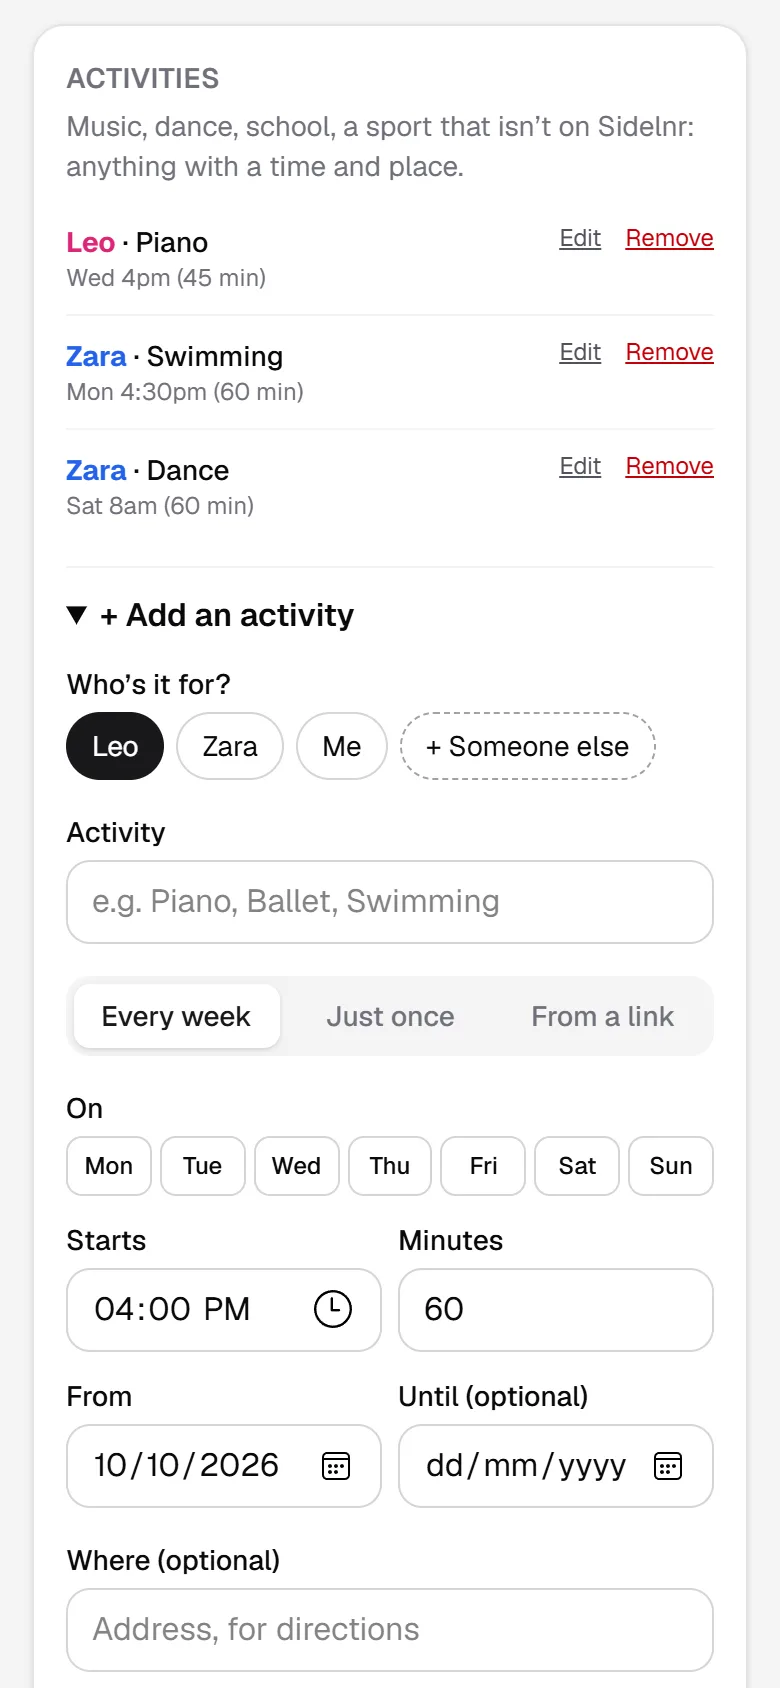
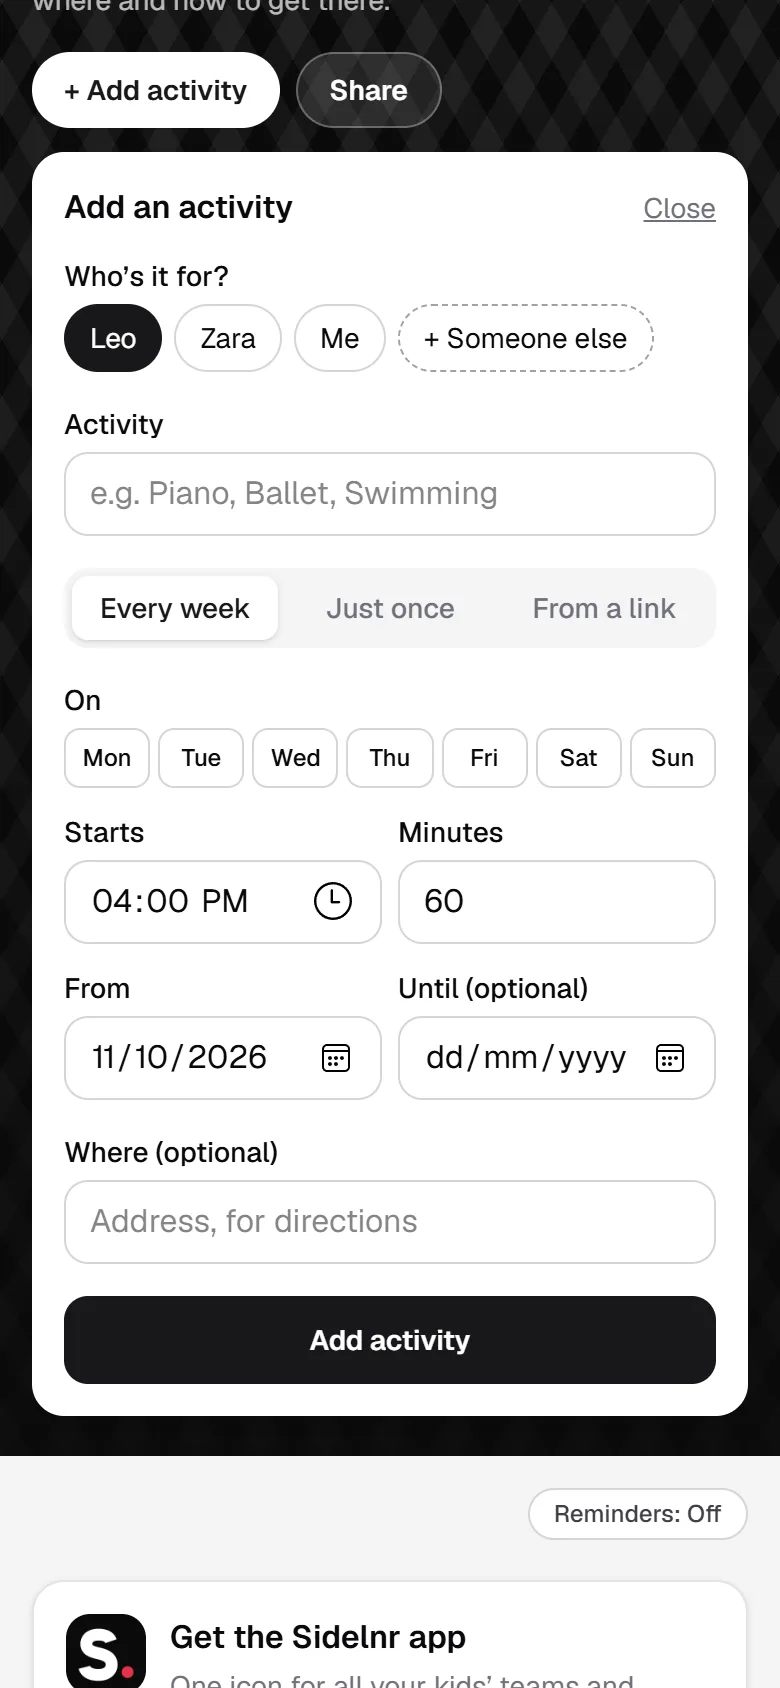
My Activities: + Add activity and Share are buttons in the header with their own panels, and the activities list folds away

diff --git a/src/app/me/page.tsx b/src/app/me/page.tsx
@@ -25,8 +25,8 @@ import { currentDeviceId, currentHouseholdId } from "@/lib/session";
 import { listActivities, sessionsOf, weeklySummary, type Activity } from "@/lib/activities";
 import type { ActivityInitial } from "./ActivityForm";
 import { needsRefresh, refreshActivity } from "@/lib/activity-import";
-import { ActivityForm } from "./ActivityForm";
-import { ActivityList, JoinCode, SessionToggle, ShareActivities } from "./ActivitiesManage";
+import { MeActions } from "./MeActions";
+import { ActivityList, SessionToggle } from "./ActivitiesManage";
 import { ActivityReminders } from "./ActivityReminders";
 import { pushPublicKey } from "@/lib/push";
 import { SidelnrLink } from "@/components/SidelnrLink";
@@ -226,11 +226,15 @@ export default async function MyPlayerPage({ searchParams }: PageProps<"/me">) {
         <SidelnrLink />
         <h1 className="mt-2 text-2xl font-semibold">My Activities</h1>
         <p className="mt-1 text-sm opacity-70">Every game, training and activity for your family: when, where and how to get there.</p>
+        <MeActions
+          people={people}
+          shareable={activities.filter((a) => !a.linked).map((a) => ({ id: a.id, label: `${a.person} · ${a.name}` }))}
+          joinInitial={joinCode}
+        />
       </header>
 
       <main className="mt-4 space-y-5 px-4">
         <ActivityReminders vapidKey={pushPublicKey()} />
-        {joinCode && <JoinCode initial={joinCode} highlight />}
         {teams.length > 0 && <InstallPrompt name="Sidelnr" icon="/app-icon/192" />}
         {teams.length === 0 && activities.length === 0 && (
           <div className="rounded-2xl border border-dashed border-zinc-300 p-5 text-center text-sm text-zinc-500">
@@ -238,7 +242,7 @@ export default async function MyPlayerPage({ searchParams }: PageProps<"/me">) {
             <Link href="/" className="font-medium text-zinc-900 underline">
               Join your team
             </Link>{" "}
-            with the code from your coach, or add an activity below (music, dance, school…), and it all shows up here.
+            with the code from your coach, or tap + Add activity above (music, dance, school…), and it all shows up here.
           </div>
         )}
 
@@ -327,51 +331,45 @@ export default async function MyPlayerPage({ searchParams }: PageProps<"/me">) {
             </ul>
           </section>
         )}
-        <section className="rounded-2xl border border-zinc-200 bg-white p-4 shadow-sm">
-          <h2 className="text-sm font-semibold uppercase tracking-wide text-zinc-500">Activities</h2>
-          <p className="mt-1 text-sm text-zinc-500">Music, dance, school, a sport that isn’t on Sidelnr: anything with a time and place.</p>
-          <div className="mt-2">
-            <ActivityList
-              people={people}
-              rows={activities.map((a) => ({
-                id: a.id,
-                name: a.name,
-                person: a.person,
-                schedule: a.source_url
-                  ? `From ${(() => {
-                      try {
-                        return new URL(a.source_url).hostname.replace(/^www\./, "");
-                      } catch {
-                        return "a link";
-                      }
-                    })()} · ${a.extra.length} session${a.extra.length === 1 ? "" : "s"}${a.source_filter ? ` · “${a.source_filter}”` : ""}`
-                  : a.weekly.length
-                    ? `${weeklySummary(a)}${a.ends_on ? ` until ${a.ends_on.split("-").reverse().join("/")}` : ""}`
-                    : `Once${a.extra[0] ? `, ${formatWeekday(new Date(a.extra[0].at), a.tz)} ${formatTime(new Date(a.extra[0].at), a.tz)}` : ""}`,
-                imported: !!a.source_url,
-                error: a.source_error,
-                linked: !!a.linked,
-                mine: !!a.mine,
-                edit: editValues(a),
-              }))}
-            />
-          </div>
-          <details className="mt-3 border-t border-zinc-100 pt-3" open={activities.length === 0 && teams.length === 0}>
-            <summary className="cursor-pointer font-semibold">+ Add an activity</summary>
-            <div className="mt-3">
-              <ActivityForm people={people} />
+        {activities.length > 0 && (
+          <details className="group rounded-2xl border border-zinc-200 bg-white shadow-sm">
+            <summary className="flex cursor-pointer list-none items-center justify-between gap-3 p-4 [&::-webkit-details-marker]:hidden">
+              <span>
+                <span className="block text-sm font-semibold uppercase tracking-wide text-zinc-500">Activities ({activities.length})</span>
+                <span className="block text-xs text-zinc-500">Edit or remove the ones you’ve added.</span>
+              </span>
+              <svg viewBox="0 0 20 20" aria-hidden className="size-4 shrink-0 text-zinc-400 transition-transform group-open:rotate-180">
+                <path d="M5 7.5l5 5 5-5" fill="none" stroke="currentColor" strokeWidth="2" strokeLinecap="round" strokeLinejoin="round" />
+              </svg>
+            </summary>
+            <div className="px-4 pb-4">
+                <ActivityList
+                  people={people}
+                  rows={activities.map((a) => ({
+                    id: a.id,
+                    name: a.name,
+                    person: a.person,
+                    schedule: a.source_url
+                      ? `From ${(() => {
+                          try {
+                            return new URL(a.source_url).hostname.replace(/^www\./, "");
+                          } catch {
+                            return "a link";
+                          }
+                        })()} · ${a.extra.length} session${a.extra.length === 1 ? "" : "s"}${a.source_filter ? ` · “${a.source_filter}”` : ""}`
+                      : a.weekly.length
+                        ? `${weeklySummary(a)}${a.ends_on ? ` until ${a.ends_on.split("-").reverse().join("/")}` : ""}`
+                        : `Once${a.extra[0] ? `, ${formatWeekday(new Date(a.extra[0].at), a.tz)} ${formatTime(new Date(a.extra[0].at), a.tz)}` : ""}`,
+                    imported: !!a.source_url,
+                    error: a.source_error,
+                    linked: !!a.linked,
+                    mine: !!a.mine,
+                    edit: editValues(a),
+                  }))}
+                />
             </div>
           </details>
-          <div className="mt-3 border-t border-zinc-100 pt-3">
-            <JoinCode />
-          </div>
-          <details className="mt-3 border-t border-zinc-100 pt-3 text-sm">
-            <summary className="cursor-pointer font-semibold">Share with another phone</summary>
-            <div className="mt-3">
-              <ShareActivities activities={activities.filter((a) => !a.linked).map((a) => ({ id: a.id, label: `${a.person} · ${a.name}` }))} />
-            </div>
-          </details>
-        </section>
+        )}
 
         {teams.length > 0 && <ForgetPhone />}
         <LegalLinks className="pt-2 text-zinc-400" />

diff --git a/src/app/me/MeActions.tsx b/src/app/me/MeActions.tsx
@@ -1,0 +1,62 @@
+"use client";
+
+import { useState } from "react";
+import { ActivityForm } from "./ActivityForm";
+import { JoinCode, ShareActivities } from "./ActivitiesManage";
+
+// The two buttons in the My Activities header: add an activity, and share
+// (a code for another phone, or a code from one). Each opens its own panel.
+export function MeActions({
+  people,
+  shareable,
+  joinInitial = "",
+}: {
+  people: string[];
+  shareable: { id: string; label: string }[];
+  joinInitial?: string; // a code from an invitation link: open Share with it filled in
+}) {
+  const [open, setOpen] = useState<"add" | "share" | null>(joinInitial ? "share" : null);
+  const toggle = (p: "add" | "share") => setOpen(open === p ? null : p);
+  const button = (p: "add" | "share", label: string) => (
+    <button
+      type="button"
+      onClick={() => toggle(p)}
+      aria-expanded={open === p}
+      className={`rounded-full px-4 py-2 text-sm font-semibold ${open === p ? "bg-white text-zinc-900" : p === "add" ? "bg-accent text-on-accent" : "border border-current/30 bg-current/10"}`}
+    >
+      {label}
+    </button>
+  );
+  return (
+    <div className="mt-4">
+      <div className="flex gap-2">
+        {button("add", "+ Add activity")}
+        {button("share", "Share")}
+      </div>
+      {open && (
+        <div className="mt-3 rounded-2xl bg-white p-4 text-zinc-950 shadow-lg">
+          <div className="mb-3 flex items-center justify-between">
+            <h2 className="font-semibold">{open === "add" ? "Add an activity" : "Share with another phone"}</h2>
+            <button type="button" onClick={() => setOpen(null)} className="text-sm text-zinc-500 underline">
+              Close
+            </button>
+          </div>
+          {open === "add" ? (
+            <ActivityForm people={people} />
+          ) : (
+            <div className="space-y-4 text-sm">
+              {shareable.length > 0 ? (
+                <ShareActivities activities={shareable} />
+              ) : (
+                <p className="text-zinc-500">Add an activity first, then you can share it.</p>
+              )}
+              <div className="border-t border-zinc-100 pt-4">
+                <JoinCode initial={joinInitial} highlight={!!joinInitial} />
+              </div>
+            </div>
+          )}
+        </div>
+      )}
+    </div>
+  );
+}

diff --git a/src/components/Guide.tsx b/src/components/Guide.tsx
@@ -31,12 +31,12 @@ const PATHS: Path[] = [
       {
         image: "/guide/act-3-add.webp",
         title: "Add anything",
-        text: "Music, dance, swimming, school: add it every week, just once, or from a link to a club’s calendar or timetable. It works for the grown-ups too.",
+        text: "Tap + Add activity at the top. Music, dance, swimming, school: add it every week, just once, or from a link to a club’s calendar or timetable. It works for the grown-ups too. Your activities fold away in a list further down.",
       },
       {
         image: "/guide/act-4-share.webp",
         title: "Share with another phone",
-        text: "Tap Get a code to share all your activities, or just some, then type the code on the other phone. It works once, so nobody else can use it.",
+        text: "Tap Share at the top, then Get a code for all your activities or just some, and type it on the other phone under “Got a code?”. It works once, so nobody else can use it.",
       },
       {
         image: "/guide/act-1-week.webp",
